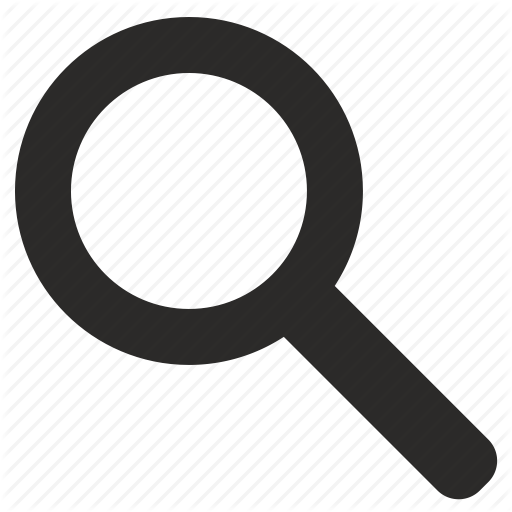
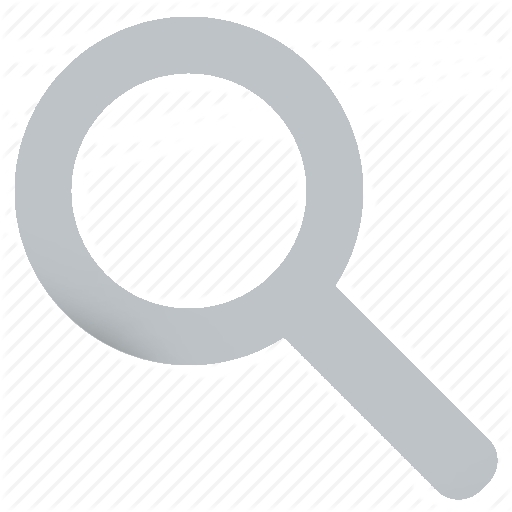
completed top-search bar for mobile

Changed region(s): [[0.0312, 0.0312, 0.9688, 1.0]]

diff --git a/public/css/index.css b/public/css/index.css
@@ -19,16 +19,19 @@ body{
 .top-bar-1{
   display : table-cell;
   width : 200px;
+  height : 100%;
 }
 
 .top-bar-2{
   width : auto;
+  height : 100%;
   display : table-cell;
 }
 
 .top-bar-3{
   width : 65px;
   display : table-cell;
+  height : 100%;
 }
 
 .top-bar-menu-button{
@@ -53,44 +56,38 @@ body{
 
 .top-bar-2-sub{
   width : 100%;
-  height : 50px;
+  height : 38px;
+  margin-top : 12px;
 }
-
-.top-bar-search-guess{
-  background-color : rgb(44,62,80);
-  width : 60%;
-  display : none;
-  margin-left : 2%;
-  position : relative;
-  left : 1px;
-
-}
-
 .top-bar-search-bar{
   background-color : rgb(44,62,80);
   border : 1px solid rgb(189,195,199);
   color : rgb(52,152,219);
   font-size : 20px;
   height : 24px;
-  margin-top : 8px;
-  margin-left : 2%;
   width : 60%;
-  padding : 2px;
+  float : left;
 }
 
 .top-bar-search-button{
   background-color : rgb(44,62,80);
-  height : 30px;
+  height : 28px;
   width : 70px;
-  position : relative;
-  top : 7px;
-  left : -1px;
   border : 1px solid rgb(189,195,199);
 }
 
+.top-bar-search-guess{
+  background-color : rgb(44,62,80);
+  width : 60%;
+  display : none;
+  
+}
+
+
 .top-bar-search-button img{
-  width : 10px;
-  height : 10px;
+  width : 15px;
+  height : 15px;
+  margin-top : 2px;
 }
 
 .top-bar-sign-in-button{

diff --git a/client/jsx/top-bar/SearchBar.jsx b/client/jsx/top-bar/SearchBar.jsx
@@ -17,7 +17,7 @@ class SearchBar extends React.Component{
         <div className="top-bar-2-sub">
           <input type="text" className="top-bar-search-bar" placeholder="Search..." onChange={this.updateEntry.bind(this)}></input>
           <button className="top-bar-search-button">
-            {/*<img src="ims/search-icon.png"></img>*/}
+            <img src="ims/search-icon.png"></img>
           </button>
           <div className="top-bar-search-guess" style={{display : drawGuesses ? 'block' : 'none'}}>
             {guesses.map((g,i) => <div key={i}>{g}</div>)}
